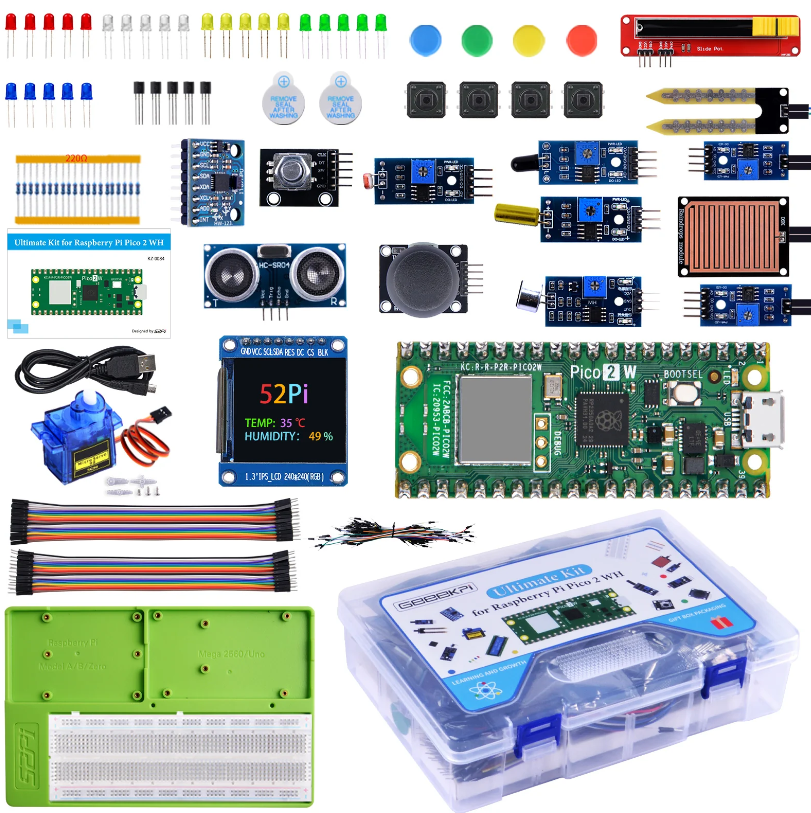
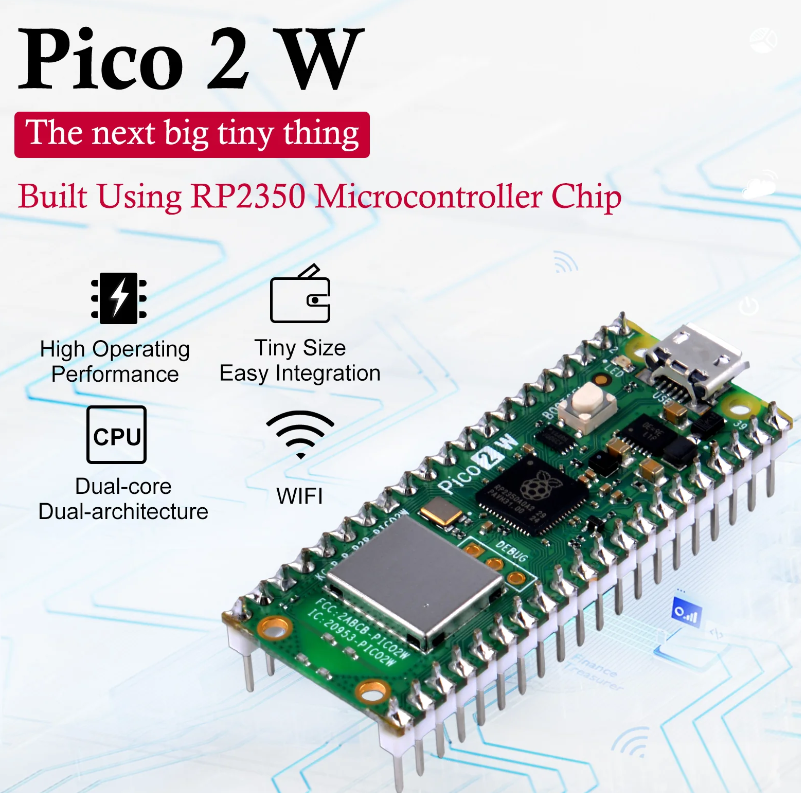
Refactor code structure for improved readability and maintainability

diff --git a/picostudy/index.html b/picostudy/index.html
@@ -39,6 +39,12 @@
                 <div style="text-align: center; margin: 30px 0;">
                     <img src="index01.png" alt="임베디드 하드웨어" style="max-width: 100%; border-radius: 16px; box-shadow: 0 10px 25px rgba(0,0,0,0.1);">
                 </div>
+                <div style="text-align: center; margin: 30px 0;">
+                    <img src="index02.png" alt="임베디드 하드웨어" style="max-width: 100%; border-radius: 16px; box-shadow: 0 10px 25px rgba(0,0,0,0.1);">
+                </div>
+                <div style="text-align: center; margin: 30px 0;">
+                    <img src="index03.png" alt="임베디드 하드웨어" style="max-width: 100%; border-radius: 16px; box-shadow: 0 10px 25px rgba(0,0,0,0.1);">
+                </div>
 
                 <h2>📘 학습 커리큘럼 안내</h2>
                 <table style="width:100%; border-collapse: collapse; margin-top: 20px;">